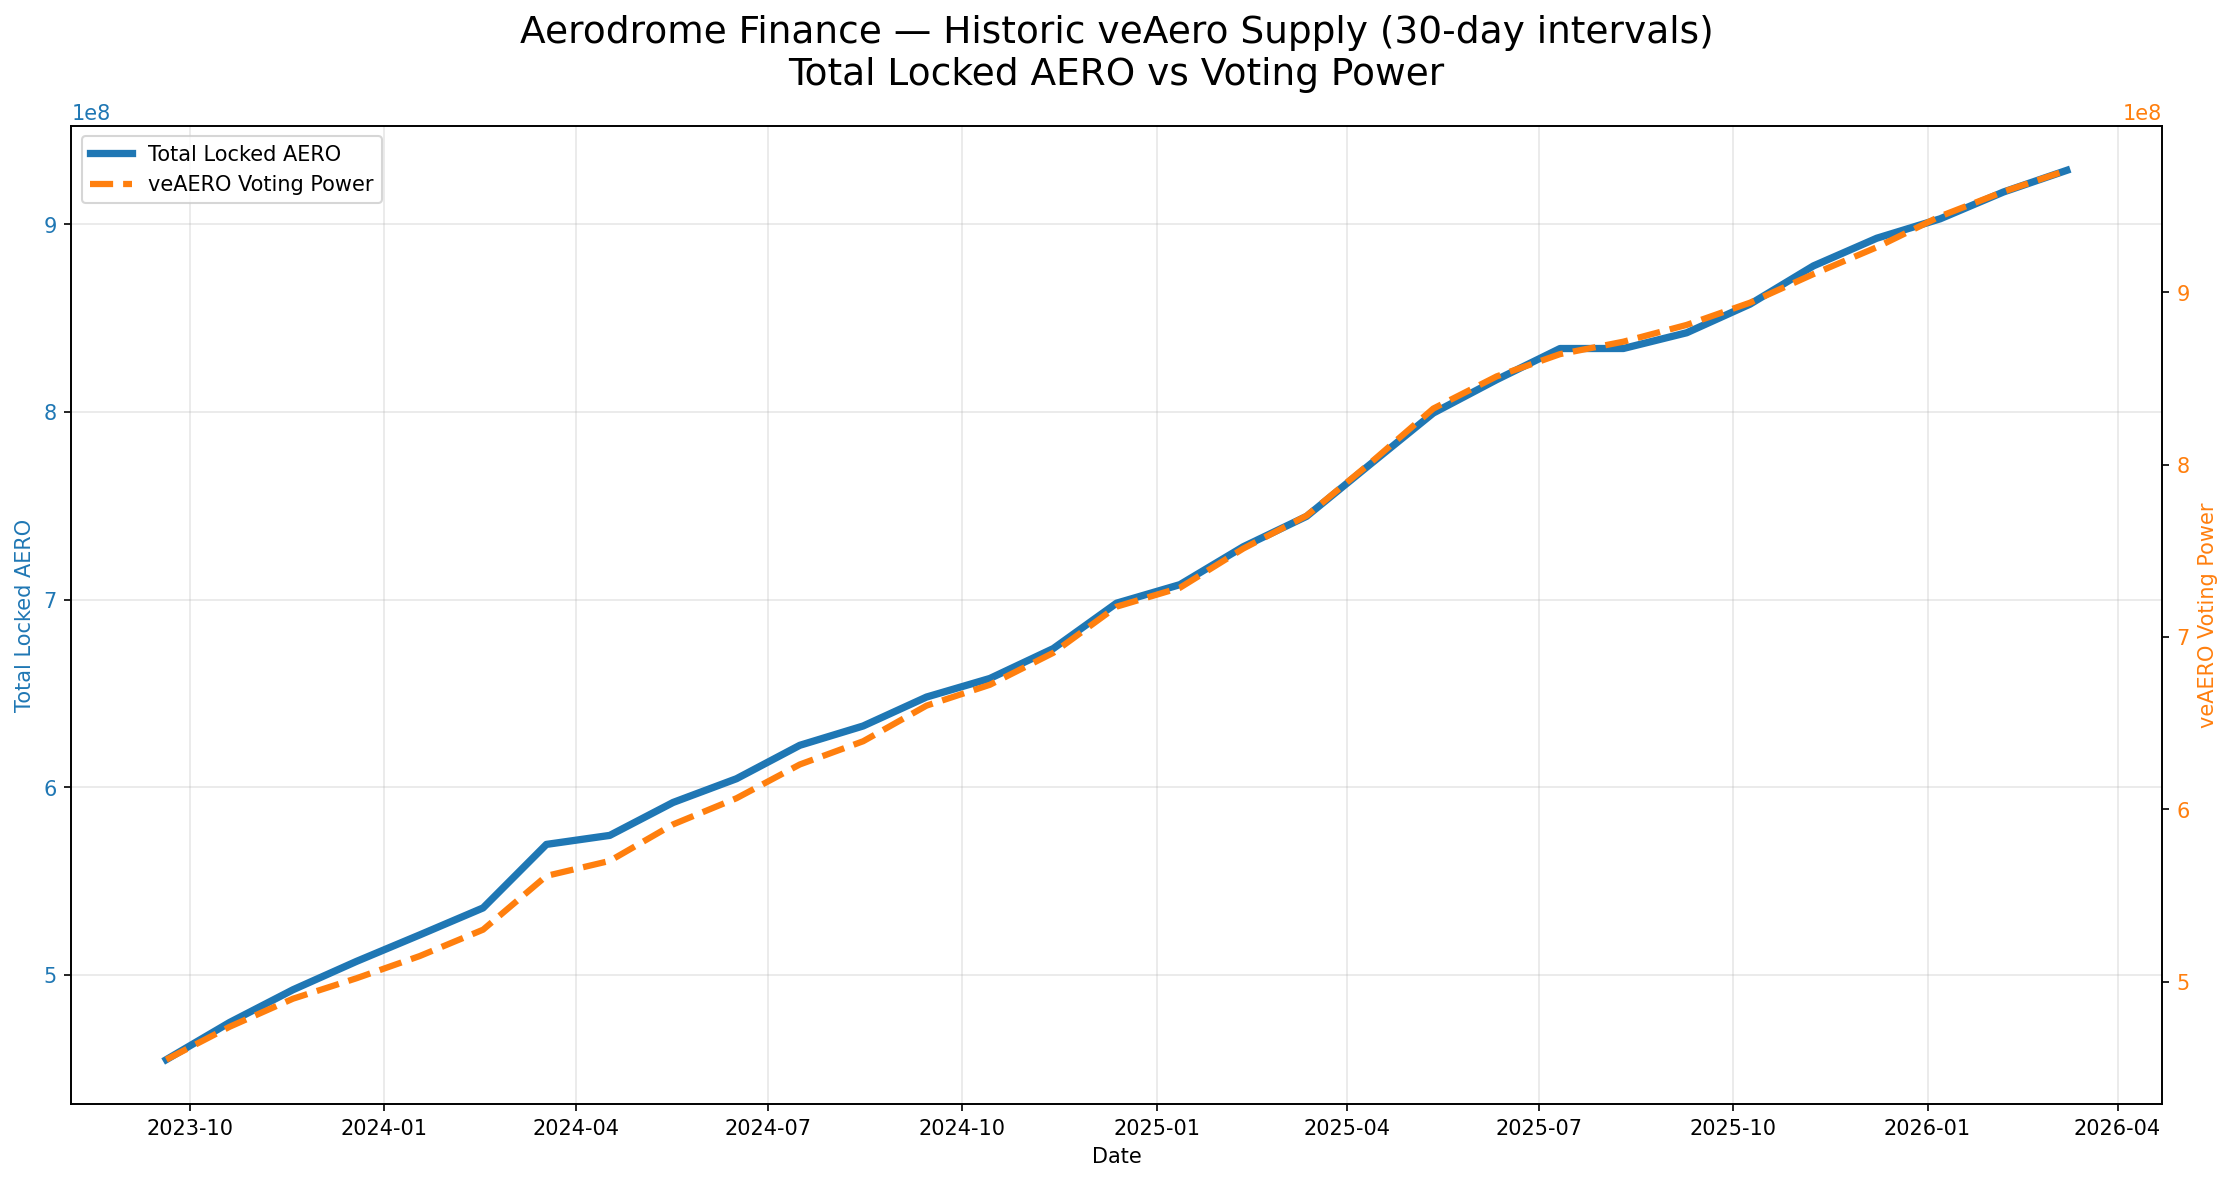
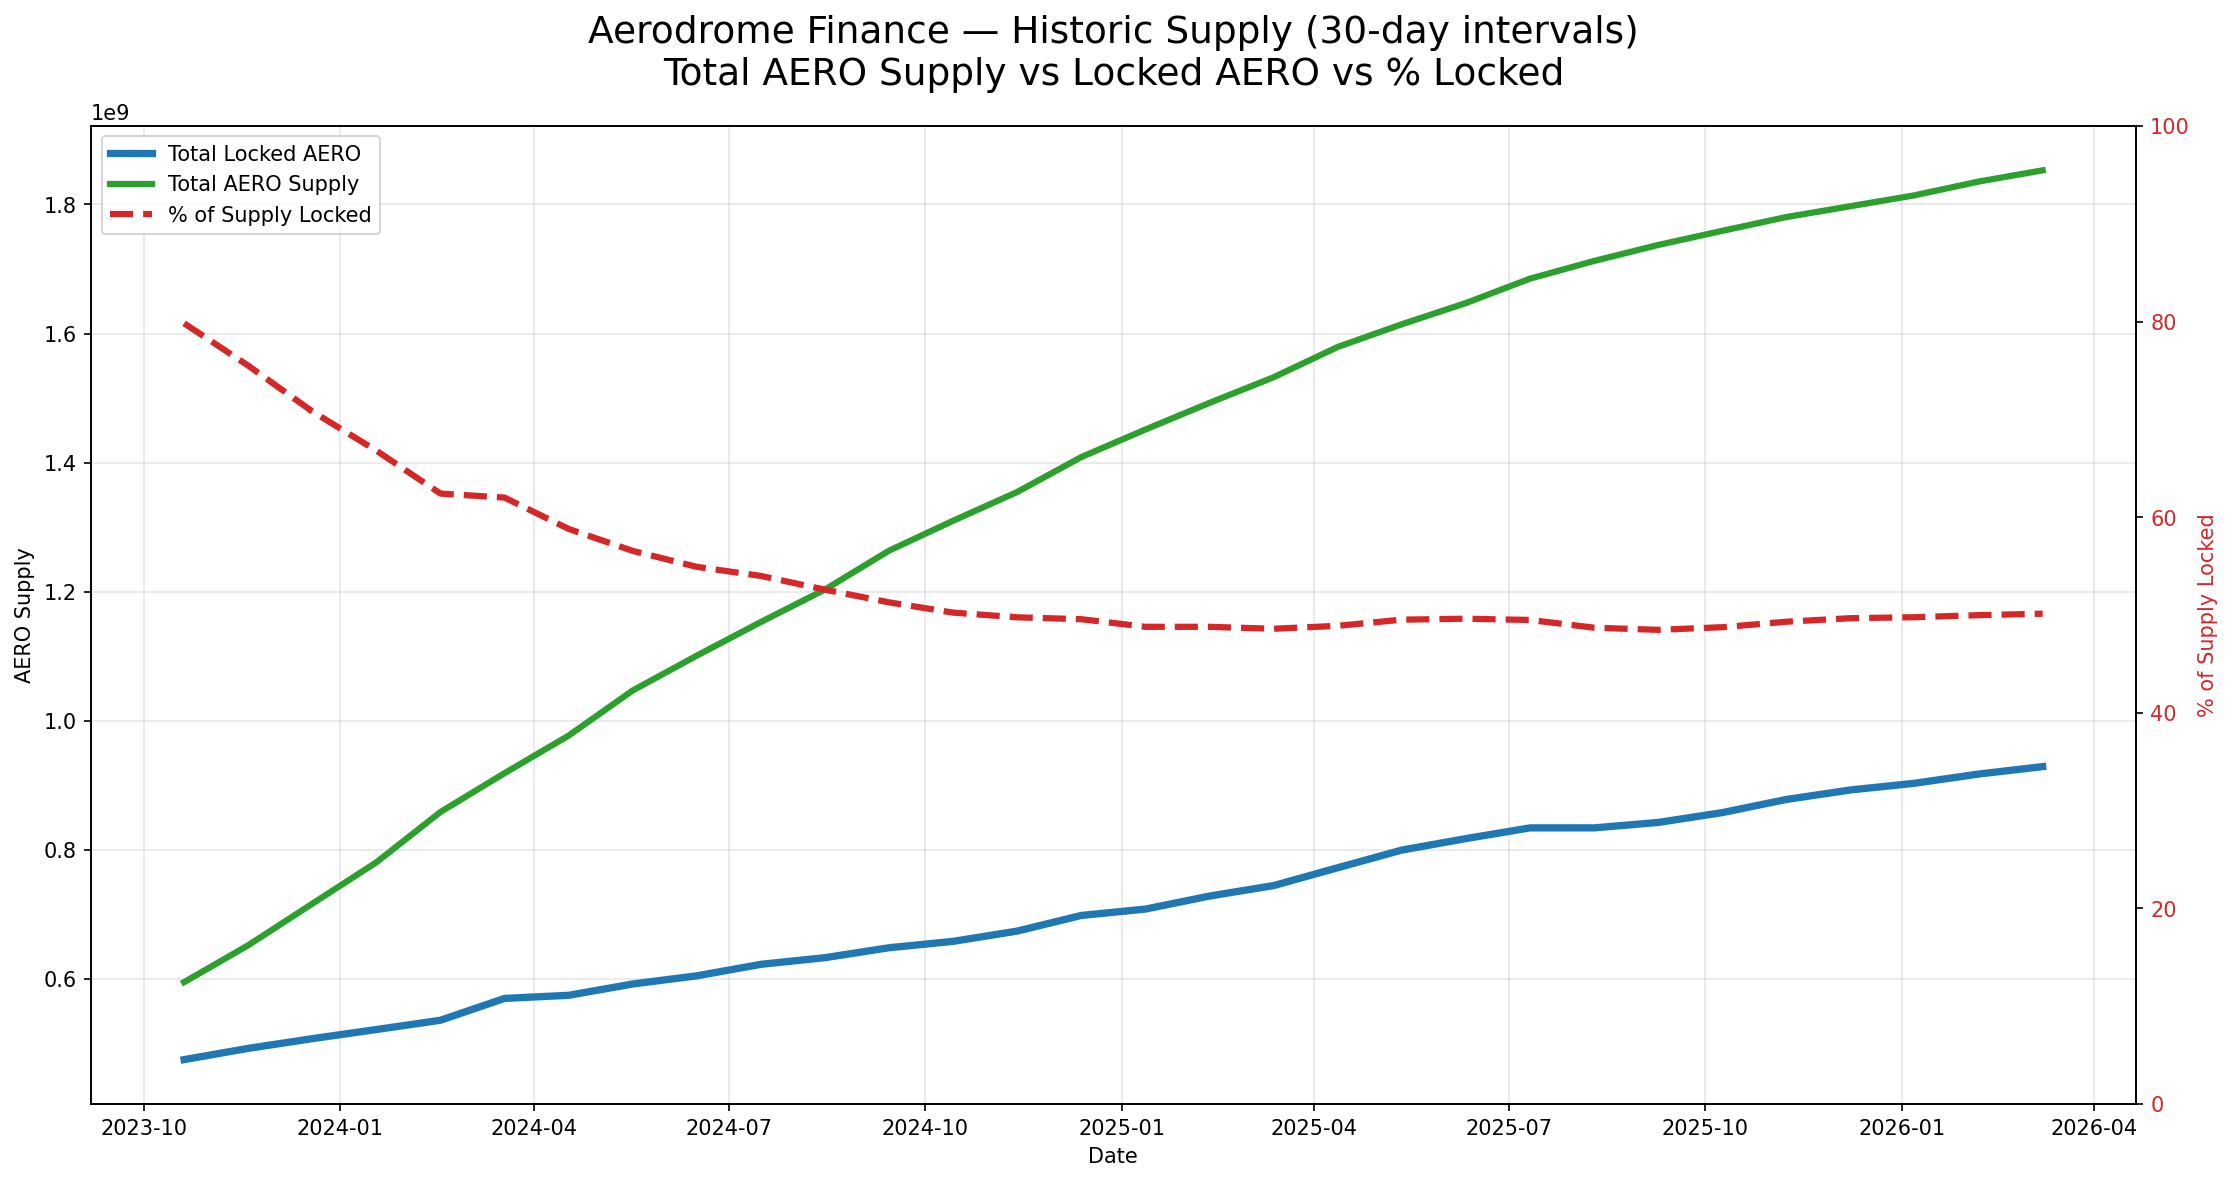
locked aero vs total

diff --git a/src/aero_pools_analysis_and_base_wallet/veAero_supply_chart.py b/src/aero_pools_analysis_and_base_wallet/veAero_supply_chart.py
@@ -6,7 +6,7 @@ import time
 
 
 class VeAeroSupplyAnalyzer:
-    """Clean, reusable class for fetching & charting Aerodrome veAero historic supply."""
+    """Fixed version — crash fixed + better early stopping."""
 
     AERO_ADDRESS = "0x940181a94A35A4569E4529A3CDfB74e38FD98631"
     VE_ADDRESS = "0xeBf418Fe2512e7E6bd9b87a8F0f294aCDC67e6B4"
@@ -42,9 +42,9 @@ class VeAeroSupplyAnalyzer:
 
     def prompt_granularity(self):
         print("📅 Choose data granularity:")
-        print("   d = Daily   (fine detail, ~950 points)")
-        print("   w = Weekly  (recommended — clean long-term trends, ~135 points)")
-        print("   m = Monthly (ultra clean overview)")
+        print("   d = Daily   (fine detail)")
+        print("   w = Weekly  (recommended)")
+        print("   m = Monthly (clean overview)")
         choice = input("Enter d/w/m [default = w]: ").strip().lower() or "w"
 
         if choice == "d":
@@ -61,8 +61,12 @@ class VeAeroSupplyAnalyzer:
         self.w3 = Web3(Web3.HTTPProvider(self.RPC_URL))
         print("✅ Connected to Base:", self.w3.is_connected())
 
-        erc20_abi = [{"constant": True, "inputs": [{"name": "_owner", "type": "address"}],
-                      "name": "balanceOf", "outputs": [{"name": "balance", "type": "uint256"}], "type": "function"}]
+        erc20_abi = [
+            {"constant": True, "inputs": [{"name": "_owner", "type": "address"}],
+             "name": "balanceOf", "outputs": [{"name": "balance", "type": "uint256"}], "type": "function"},
+            {"constant": True, "inputs": [], "name": "totalSupply",
+             "outputs": [{"name": "supply", "type": "uint256"}], "type": "function"}
+        ]
         ve_abi = [{"inputs": [], "name": "totalSupply", "outputs": [{"internalType": "uint256", "name": "", "type": "uint256"}],
                    "stateMutability": "view", "type": "function"}]
 
@@ -96,15 +100,18 @@ class VeAeroSupplyAnalyzer:
 
         for i in range(self.NUM_POINTS):
             block = current_block - (i * BLOCK_STEP)
-            if block < 2_000_000:
+            if block < 5_000_000:   # Safe early stop (before contracts existed)
                 break
 
             try:
                 locked_raw = self.call_with_retry(self.aero_contract.functions.balanceOf(self.VE_ADDRESS), block)
+                total_raw = self.call_with_retry(self.aero_contract.functions.totalSupply(), block)
                 ve_raw = self.call_with_retry(self.ve_contract.functions.totalSupply(), block)
                 block_info = self.w3.eth.get_block(block)
 
                 locked_aero = locked_raw / 1e18
+                total_aero = total_raw / 1e18
+                percent_locked = (locked_aero / total_aero * 100) if total_aero > 0 else 0
                 ve_supply = ve_raw / 1e18
                 date = datetime.fromtimestamp(block_info['timestamp'])
 
@@ -112,17 +119,20 @@ class VeAeroSupplyAnalyzer:
                     'date': date,
                     'block': block,
                     'total_locked_aero': round(locked_aero, 2),
+                    'total_aero_supply': round(total_aero, 2),
+                    'percent_locked': round(percent_locked, 2),
                     've_voting_supply': round(ve_supply, 2)
                 })
 
-                if i % 25 == 0 or i == self.NUM_POINTS - 1:
+                if i % 20 == 0 or i == self.NUM_POINTS - 1:
                     print(f"✅ {i+1:3d} points | {date.strftime('%Y-%m-%d')} | "
-                          f"Locked AERO: {locked_aero:,.0f} | veSupply: {ve_supply:,.0f}")
+                          f"Locked: {locked_aero:,.0f} | Total: {total_aero:,.0f} | "
+                          f"% Locked: {percent_locked:.1f}%")
 
                 time.sleep(self.BASE_SLEEP)
 
             except Exception as e:
-                print(f"⚠ Error at block {block}: {e}")
+                print(f"⚠ Error at block {block}: {str(e)[:80]}...")
                 time.sleep(2)
                 continue
 
@@ -138,21 +148,25 @@ class VeAeroSupplyAnalyzer:
         filename_base = f"veaero_historic_supply_{self.days}day"
 
         fig, ax1 = plt.subplots(figsize=(15, 8))
-        color1 = '#1f77b4'
+        color_locked = '#1f77b4'
+        color_total = '#2ca02c'
+        color_percent = '#d62728'
+
         ax1.set_xlabel('Date')
-        ax1.set_ylabel('Total Locked AERO', color=color1)
-        ax1.plot(self.df['date'], self.df['total_locked_aero'], color=color1, linewidth=3.5, label='Total Locked AERO')
-        ax1.tick_params(axis='y', labelcolor=color1)
+        ax1.set_ylabel('AERO Supply', color='black')
+        ax1.plot(self.df['date'], self.df['total_locked_aero'], color=color_locked, linewidth=3.5, label='Total Locked AERO')
+        ax1.plot(self.df['date'], self.df['total_aero_supply'], color=color_total, linewidth=3.0, label='Total AERO Supply')
+        ax1.tick_params(axis='y', labelcolor='black')
 
         ax2 = ax1.twinx()
-        color2 = '#ff7f0e'
-        ax2.set_ylabel('veAERO Voting Power', color=color2)
-        ax2.plot(self.df['date'], self.df['ve_voting_supply'], color=color2, linewidth=3, linestyle='--',
-                 label='veAERO Voting Power')
-        ax2.tick_params(axis='y', labelcolor=color2)
+        ax2.set_ylabel('% of Supply Locked', color=color_percent)
+        ax2.plot(self.df['date'], self.df['percent_locked'], color=color_percent, linewidth=3, linestyle='--',
+                 label='% of Supply Locked')
+        ax2.tick_params(axis='y', labelcolor=color_percent)
+        ax2.set_ylim(0, 100)
 
-        plt.title(f'Aerodrome Finance — Historic veAero Supply ({self.days}-day intervals)\n'
-                  f'Total Locked AERO vs Voting Power', fontsize=18, pad=20)
+        plt.title(f'Aerodrome Finance — Historic Supply ({self.days}-day intervals)\n'
+                  f'Total AERO Supply vs Locked AERO vs % Locked', fontsize=18, pad=20)
         fig.tight_layout()
         ax1.grid(True, alpha=0.3)
 
@@ -160,17 +174,22 @@ class VeAeroSupplyAnalyzer:
         lines2, labels2 = ax2.get_legend_handles_labels()
         ax1.legend(lines1 + lines2, labels1 + labels2, loc='upper left')
 
-        # SAVE TO PNG (no window popup)
         plt.savefig(f"{filename_base}.png", dpi=150, bbox_inches='tight')
         plt.close()
         print(f"📊 Chart saved → {filename_base}.png")
 
     def print_stats(self):
         latest = self.df.iloc[-1]
+        ve = latest['ve_voting_supply']
+        locked = latest['total_locked_aero']
+        ratio = (ve / locked * 100) if locked > 0 else 0
+
         print(f"\n📊 CURRENT STATS:")
-        print(f"   Total Locked AERO  : {latest['total_locked_aero']:,.0f}")
-        print(f"   veAERO Voting Power: {latest['ve_voting_supply']:,.0f}")
-        print(f"   Ratio (ve/locked)   : {latest['ve_voting_supply']/latest['total_locked_aero']:.1%}")
+        print(f"   Total AERO Supply      : {latest['total_aero_supply']:,.0f}")
+        print(f"   Total Locked AERO      : {locked:,.0f}")
+        print(f"   % of supply locked     : {latest['percent_locked']:.1f}%")
+        print(f"   veAERO Voting Power    : {ve:,.0f}")
+        print(f"   ve/locked ratio        : {ratio:.1f}%")
         print(f"   Granularity: {self.days} days | Files saved! 📈")
 
     def run(self):
